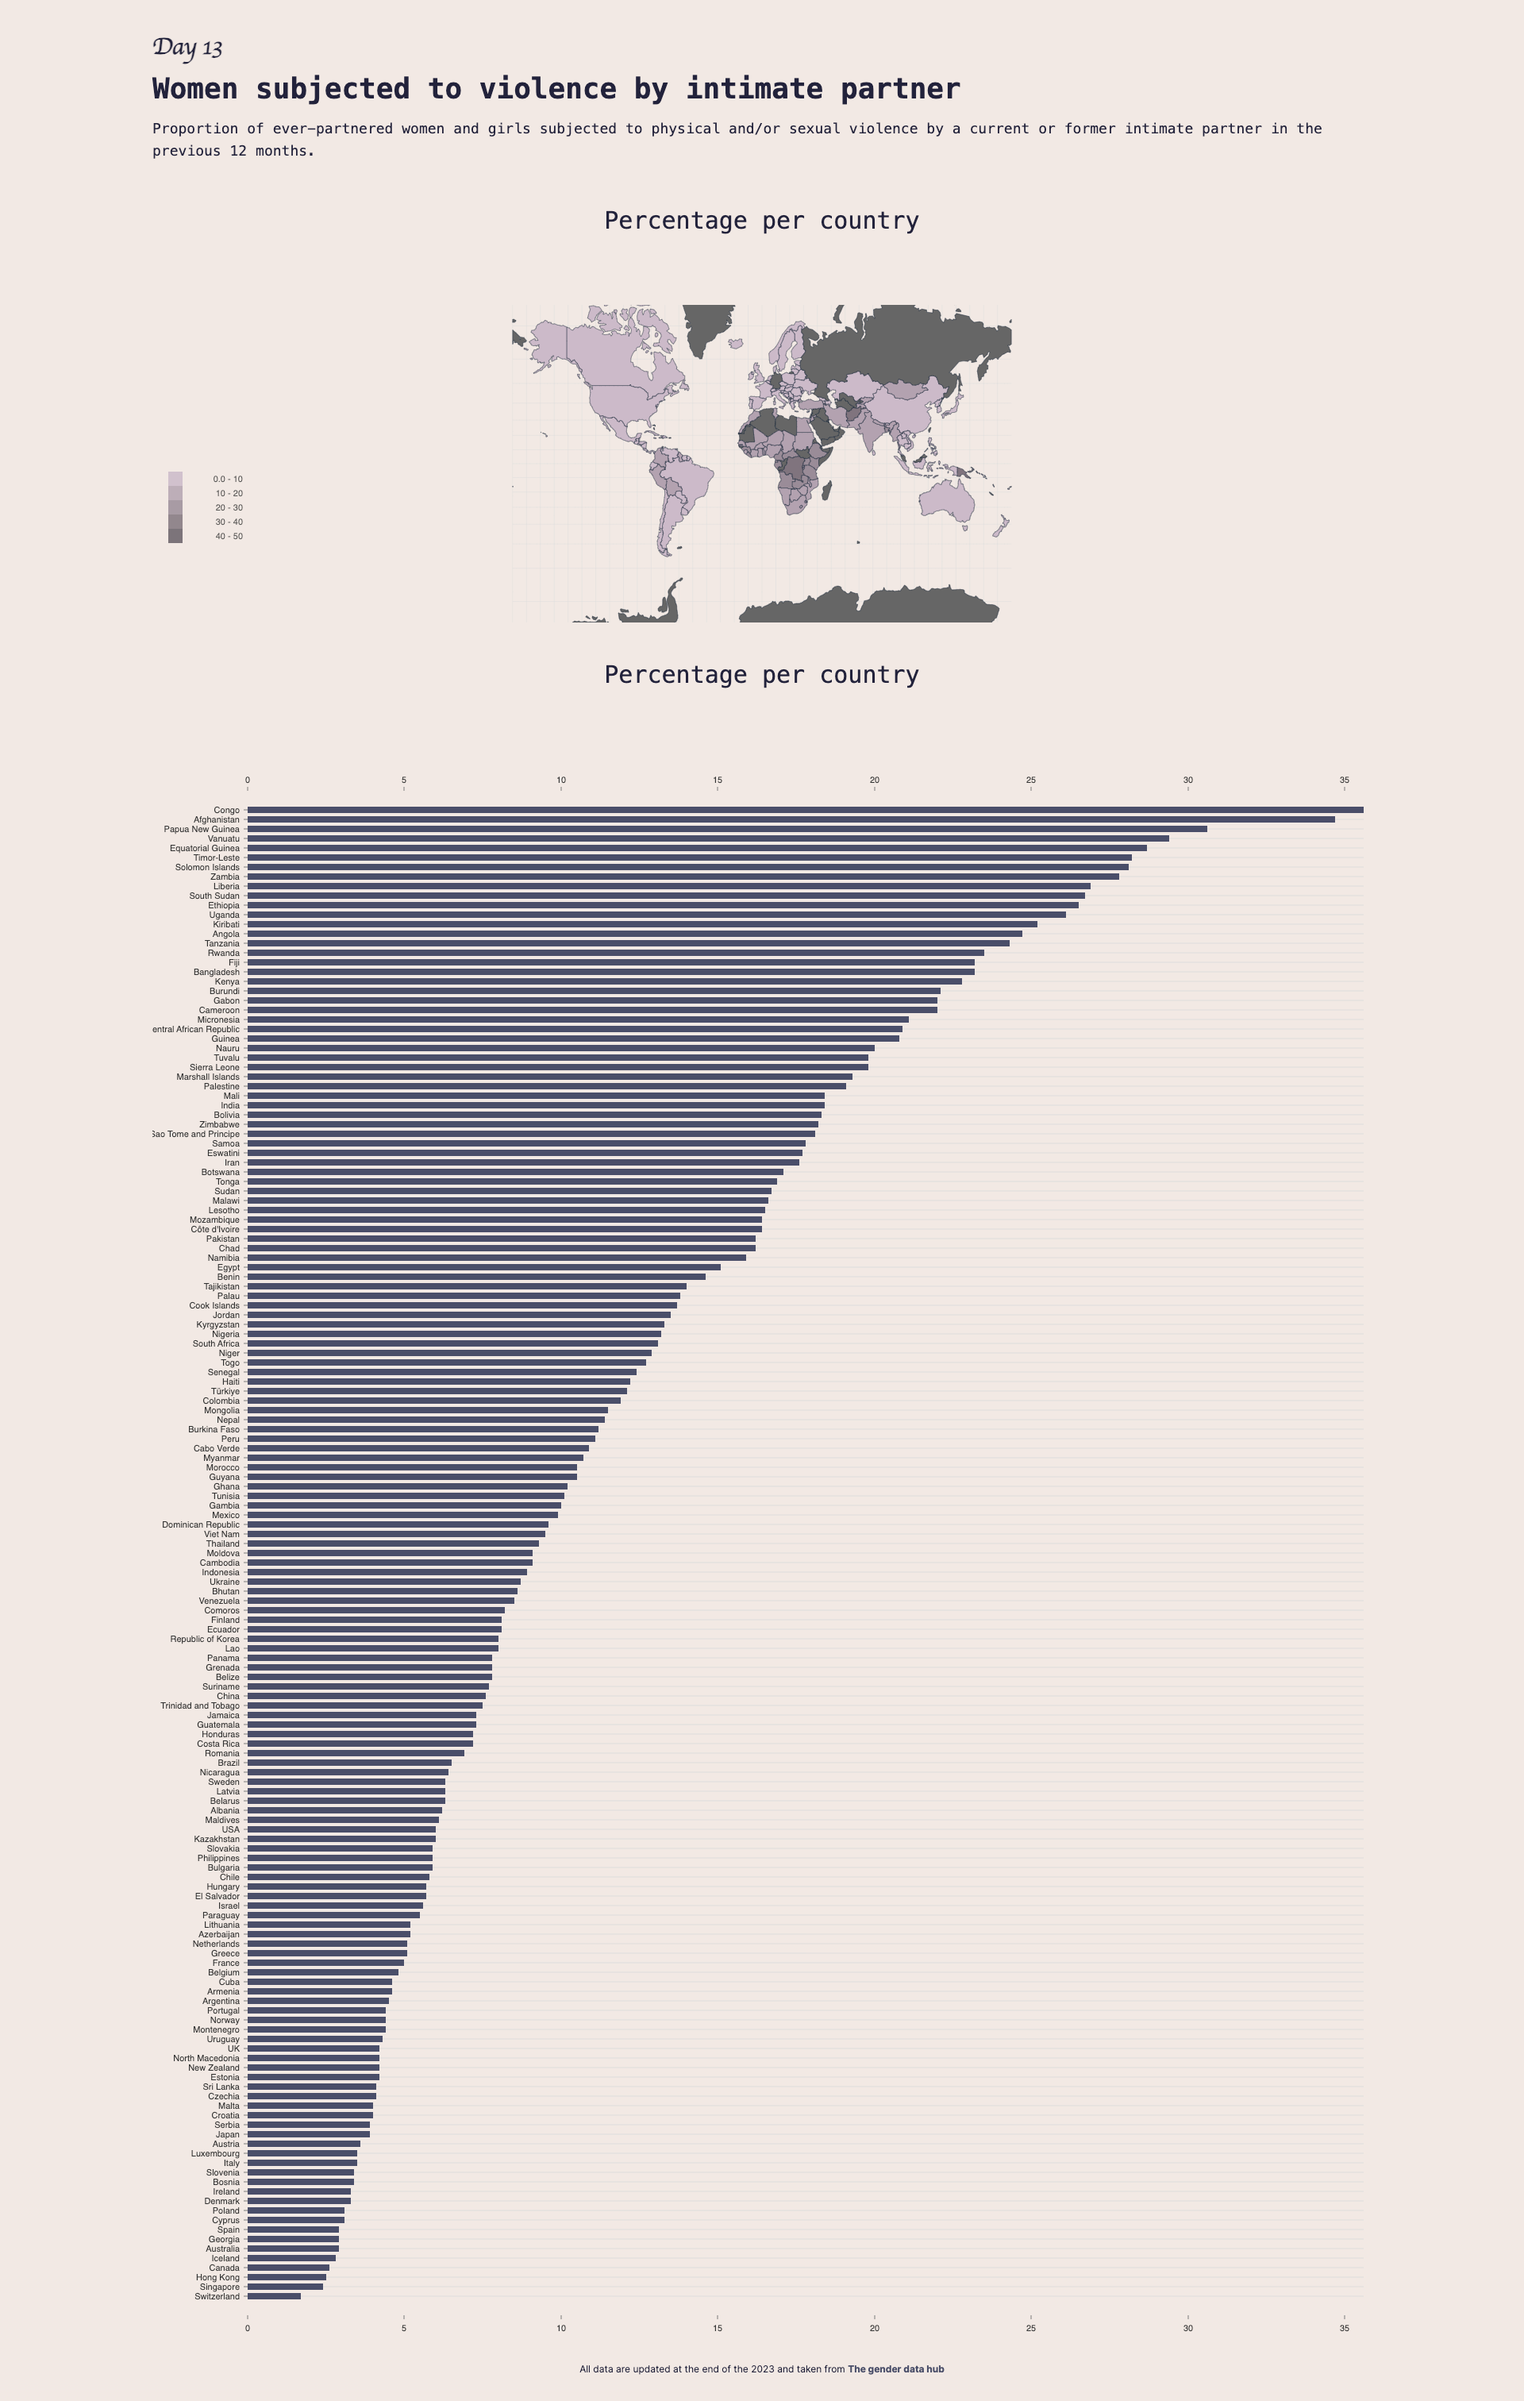
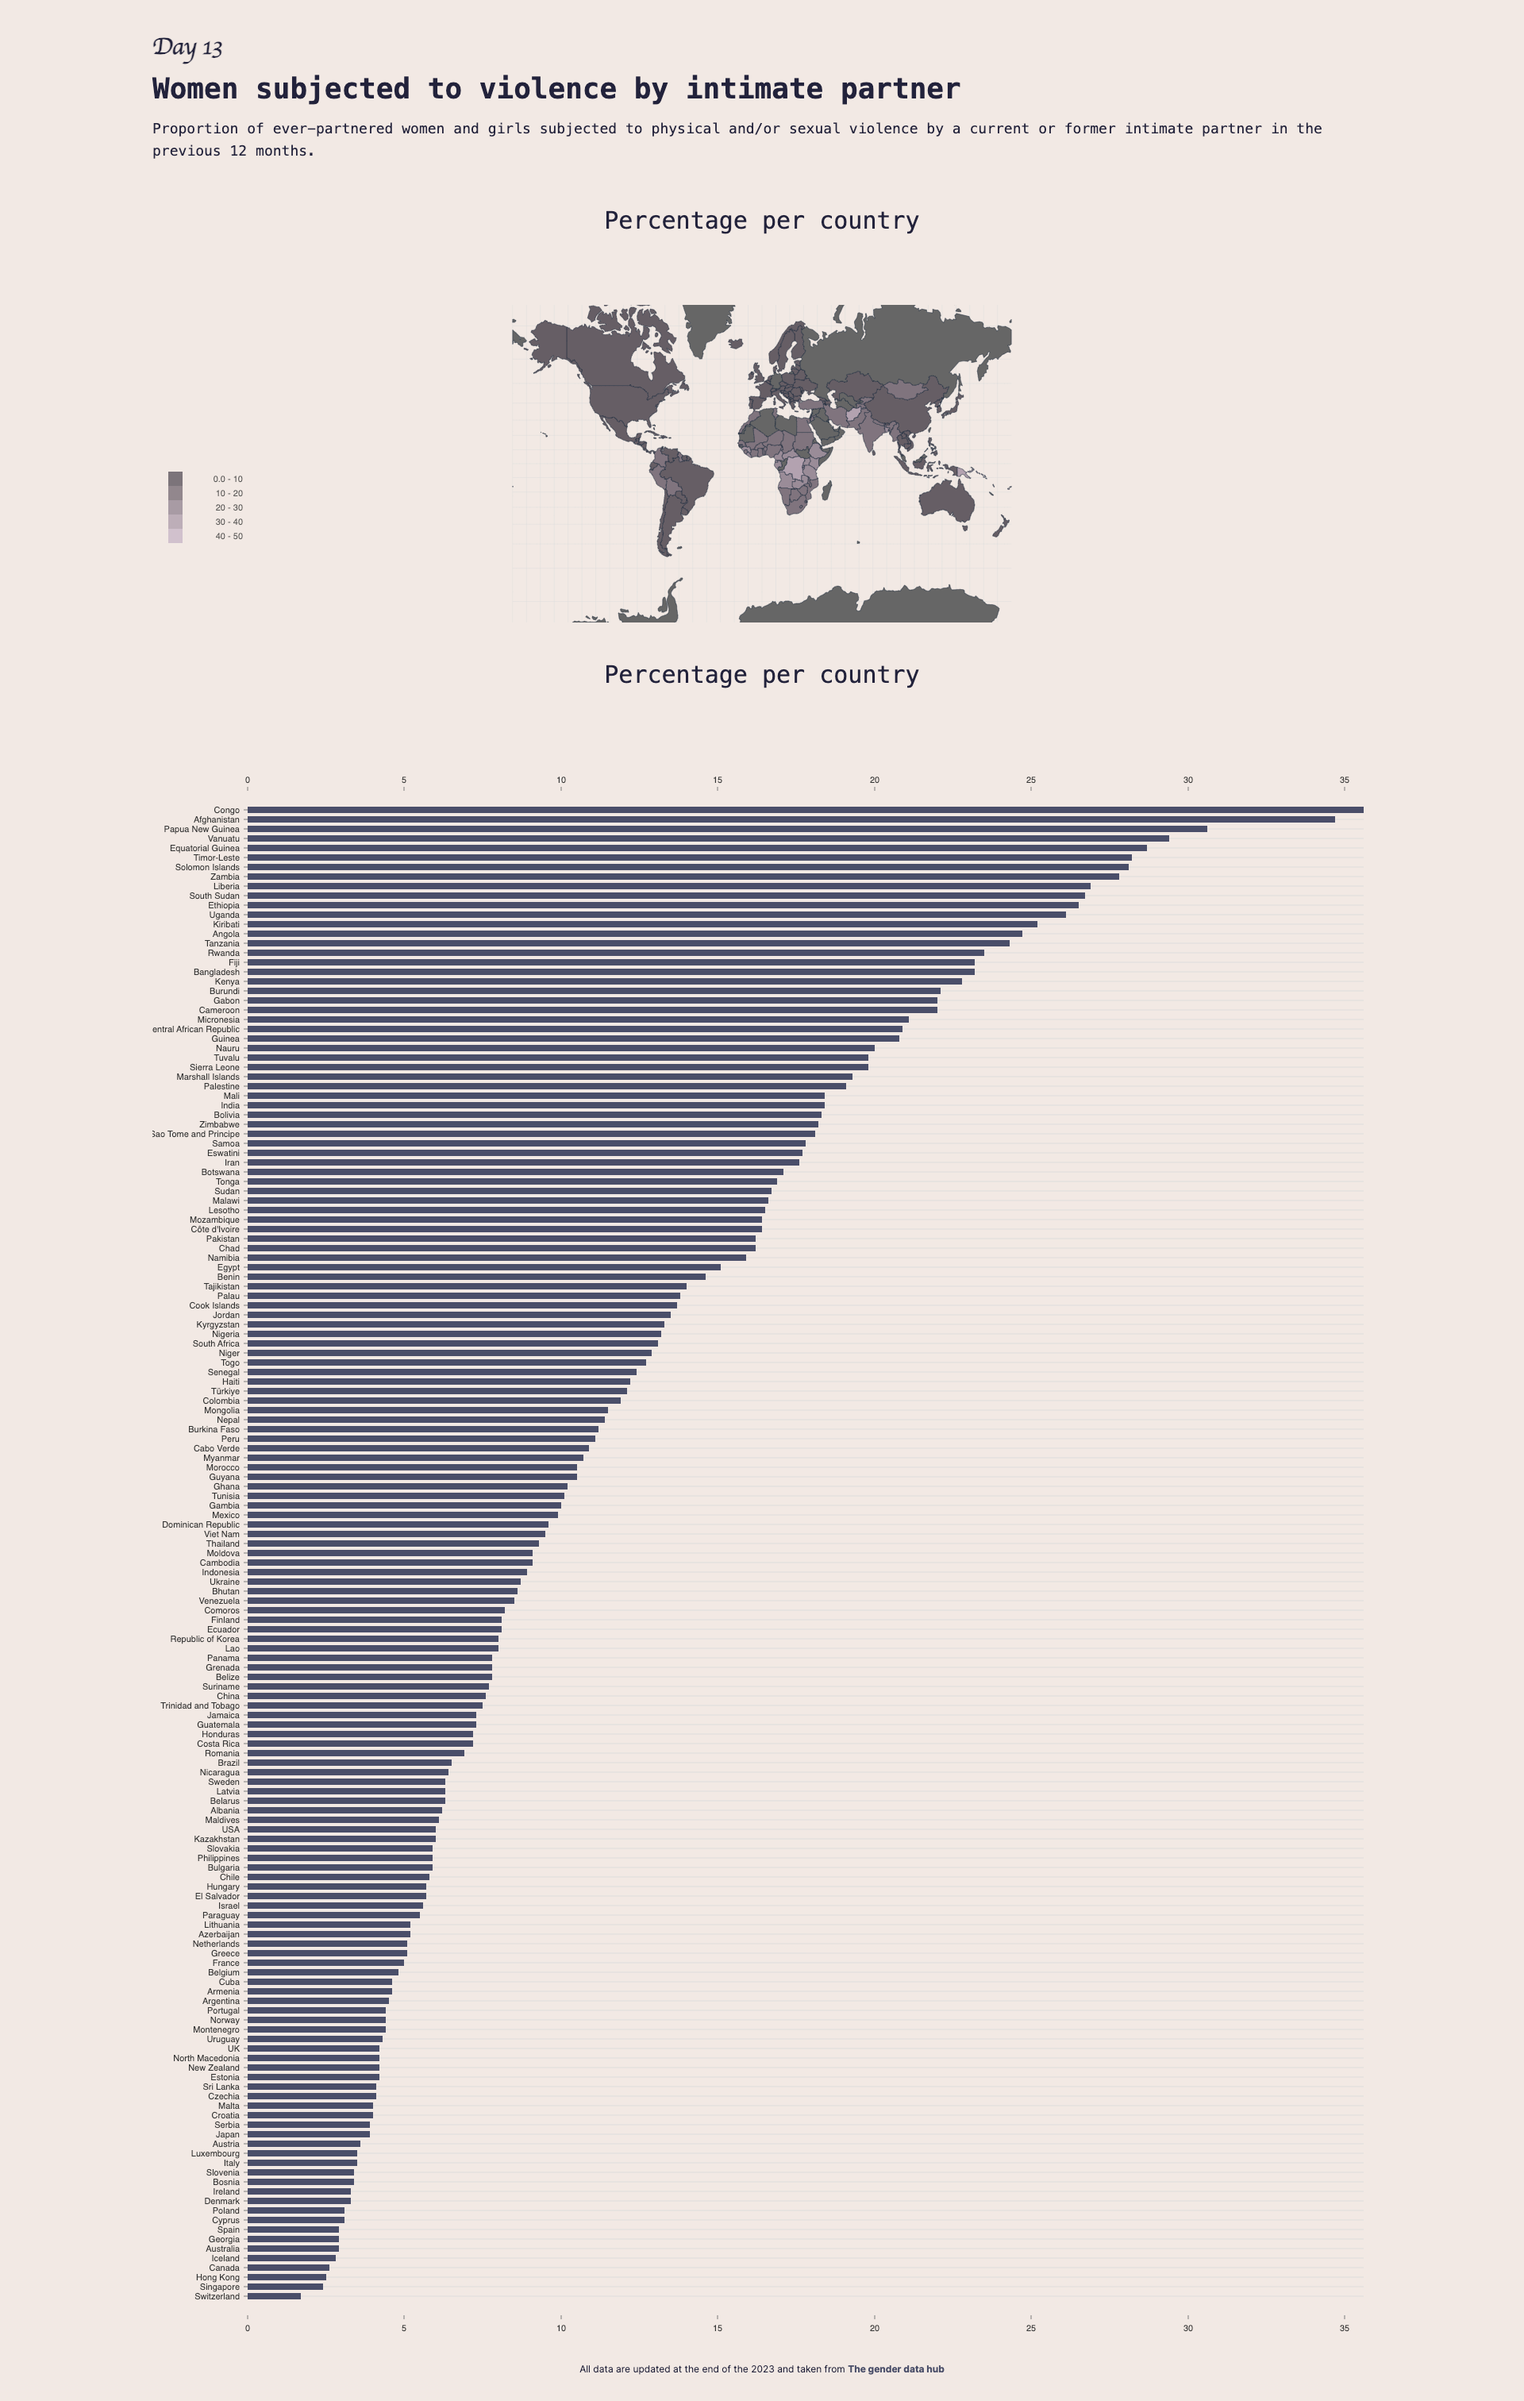
fix(13): reversed colors

Changed region(s): [[0.4688, 0.1243, 0.6562, 0.2176], [0.3438, 0.1243, 0.4688, 0.2176], [0.0938, 0.1865, 0.125, 0.2176]]

diff --git a/src/app/day/13/page.jsx b/src/app/day/13/page.jsx
@@ -22,7 +22,13 @@ const Page13 = () => {
         <div className='mb-[20px] flex h-[400px] w-full justify-center'>
           <NivoChoropleth
             data={mapData}
-            colors={['#CCBAC9', '#B3A2B0', '#9A8C98', '#80747E', '#665D65']}
+            colors={[
+              '#CCBAC9',
+              '#B3A2B0',
+              '#9A8C98',
+              '#80747E',
+              '#665D65',
+            ].reverse()}
             valueFormat='.2s'
             domain={[0, 50]}
           />
